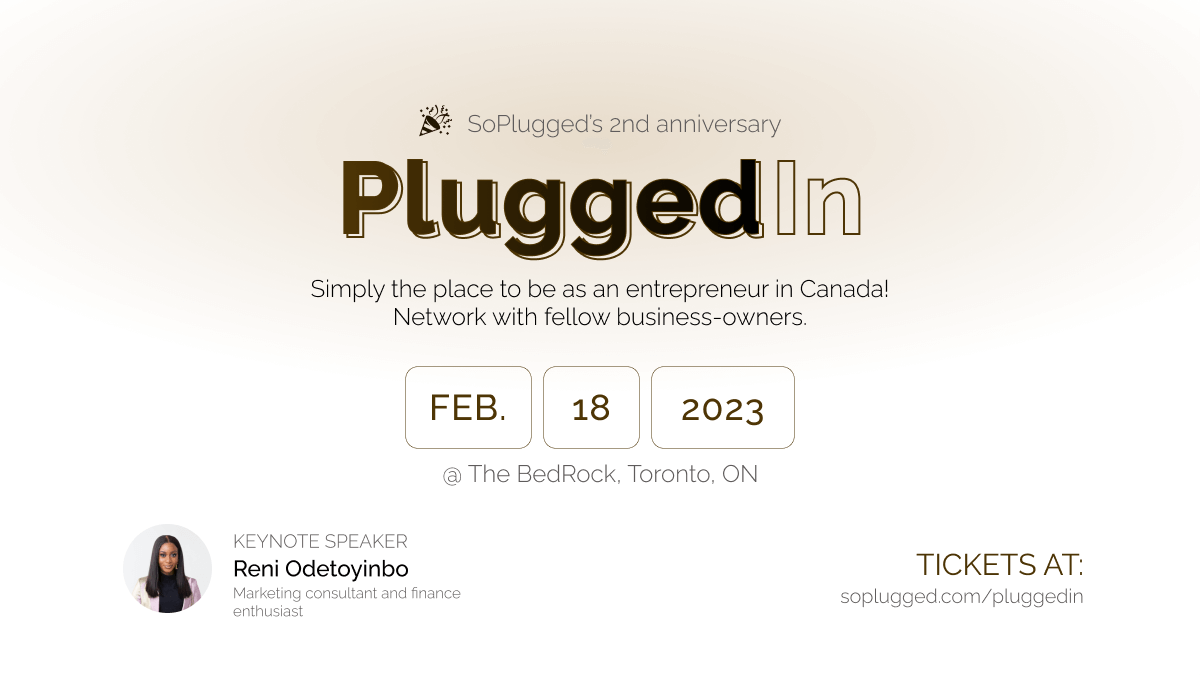
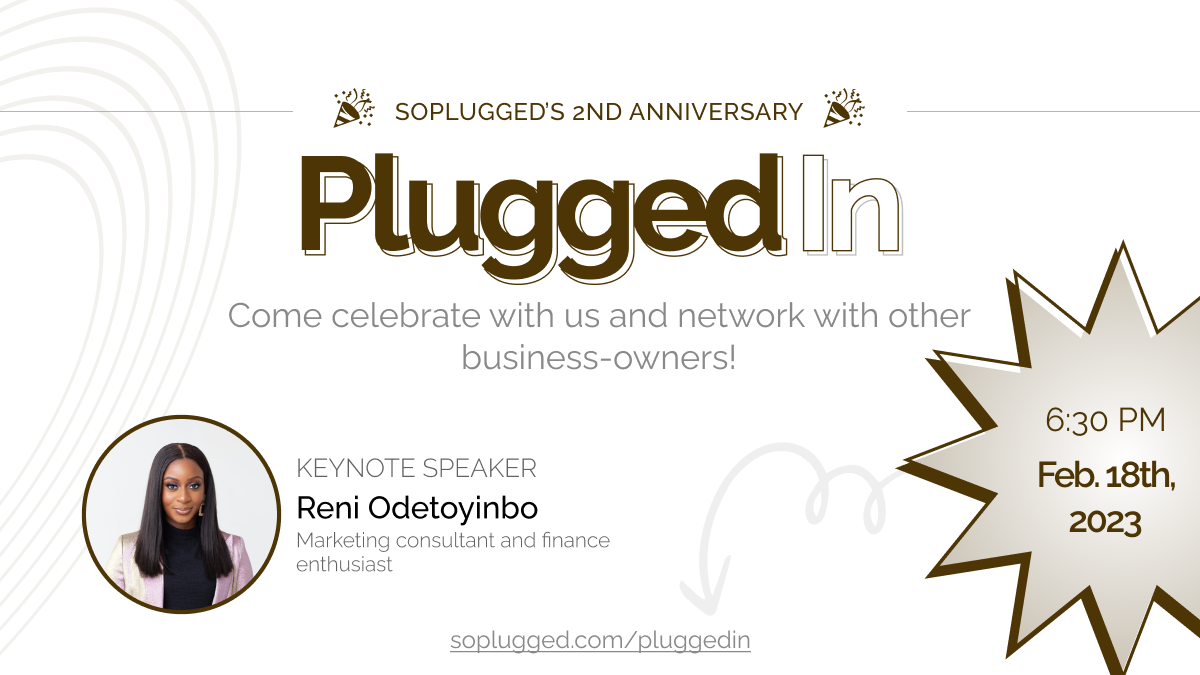
update OG image

diff --git a/src/components/pluggedIn/Tickets.tsx b/src/components/pluggedIn/Tickets.tsx
@@ -1,3 +1,5 @@
+import Dialog from "@reach/dialog";
+
 const options = [
   {
     title: "Business special",
@@ -60,101 +62,116 @@ function classNames(...classes: any) {
 
 const Tickets = () => {
   return (
-    <div className="my-container overflow-hidden">
-      <h2 className="outlinedText conference text-center text-5xl font-extrabold uppercase lg:text-6xl">
-        Tickets
-      </h2>
+    <>
+      <div className="my-container overflow-hidden">
+        <h2 className="outlinedText conference text-center text-5xl font-extrabold uppercase lg:text-6xl">
+          Tickets
+        </h2>
 
-      <ul className="my-10 grid gap-6 lg:grid-cols-2 lg:gap-10">
-        {options.map((option) => (
-          <li key={option.title}>
-            <form action="/api/stripe/checkout_sessions" method="POST">
-              <button
-                className={`${
-                  option.isDiscount ? "border-2" : "border"
-                } relative flex w-full flex-col gap-4 rounded-3xl border-primary bg-white p-6 text-left transition duration-150 hover:scale-[.98] sm:p-10`}
-              >
-                {option.isDiscount && (
-                  <img
-                    src="/exclusive_sticker.png"
-                    className="absolute -top-10 -right-6 h-20 lg:-top-10 lg:-right-10 lg:h-24"
-                    alt=""
-                  />
-                )}
-                <div className="flex w-full items-center justify-between gap-2 lg:flex-1">
-                  <div>
-                    <h3
-                      className={`text-xl font-bold leading-8 tracking-tight text-primary lg:text-2xl`}
-                    >
-                      {option.title}
-                    </h3>
-                    <p
-                      className={`mt-2 w-[80%] text-sm text-gray-600 lg:text-lg`}
-                    >
-                      {option.description}
-                    </p>
-                    <p className="mt-2 w-[80%] text-xs text-gray-600 lg:text-sm">
-                      *{option.subText}
-                    </p>
-                  </div>
-
-                  <div
-                    className={`absolute right-0 mr-6 inline-flex items-center text-primary sm:mr-10`}
-                  >
-                    <span>$</span>
-                    <p className="text-3xl font-medium lg:text-4xl">
-                      {option.price}
-                    </p>
-                    <span className="mb-6 text-sm">99</span>
-                  </div>
-                </div>
-              </button>
-            </form>
-          </li>
-        ))}
-      </ul>
-
-      <div>
-        <p className="font-semibold underline">
-          All tickets grant access to the following:
-        </p>
-        <div className="mt-5 grid gap-16 lg:grid-cols-3 lg:gap-x-10 lg:gap-y-12">
-          {features.map((feature) => (
-            <div className="relative" key={feature.title}>
-              <div>
-                <span
-                  className={classNames(
-                    feature.category.color,
-                    "inline-flex items-center rounded-full px-3 py-0.5 text-sm font-medium"
+        <ul className="my-10 grid gap-6 lg:grid-cols-2 lg:gap-10">
+          {options.map((option) => (
+            <li key={option.title}>
+              <form action="/api/stripe/checkout_sessions" method="POST">
+                <button
+                  className={`${
+                    option.isDiscount ? "border-2" : "border"
+                  } relative flex w-full flex-col gap-4 rounded-3xl border-primary bg-white p-6 text-left transition duration-150 hover:scale-[.98] sm:p-10`}
+                >
+                  {option.isDiscount && (
+                    <img
+                      src="/exclusive_sticker.png"
+                      className="absolute -top-10 -right-6 h-20 lg:-top-10 lg:-right-10 lg:h-24"
+                      alt=""
+                    />
                   )}
-                >
-                  {feature.category.name}
-                </span>
-              </div>
-              <div className="mt-2 block lg:mt-4">
-                <p className="text-lg font-bold text-gray-900 lg:text-xl">
-                  {feature.title}
-                </p>
-                <p className="mt-3 text-base text-gray-500">
-                  {feature.description}
-                </p>
-              </div>
-              <div className="mt-3 items-center">
-                <a
-                  href={feature.footer?.href}
-                  target="_blank"
-                  rel="noreferrer"
-                  className="text-sm font-medium text-gray-900 underline"
-                >
-                  {feature.footer?.title}
-                </a>
-              </div>
-              <hr className="absolute -bottom-6 left-0 w-full lg:hidden" />
-            </div>
+                  <div className="flex w-full items-center justify-between gap-2 lg:flex-1">
+                    <div>
+                      <h3
+                        className={`text-xl font-bold leading-8 tracking-tight text-primary lg:text-2xl`}
+                      >
+                        {option.title}
+                      </h3>
+                      <p
+                        className={`mt-2 w-[80%] text-sm text-gray-600 lg:text-lg`}
+                      >
+                        {option.description}
+                      </p>
+                      <p className="mt-2 w-[80%] text-xs text-gray-600 lg:text-sm">
+                        *{option.subText}
+                      </p>
+                    </div>
+
+                    <div
+                      className={`absolute right-0 mr-6 inline-flex items-center text-primary sm:mr-10`}
+                    >
+                      <span>$</span>
+                      <p className="text-3xl font-medium lg:text-4xl">
+                        {option.price}
+                      </p>
+                      <span className="mb-6 text-sm">99</span>
+                    </div>
+                  </div>
+                </button>
+              </form>
+            </li>
           ))}
+        </ul>
+
+        <div>
+          <p className="font-semibold underline">
+            All tickets grant access to the following:
+          </p>
+          <div className="mt-5 grid gap-16 lg:grid-cols-3 lg:gap-x-10 lg:gap-y-12">
+            {features.map((feature, index) => (
+              <div className="relative" key={feature.title}>
+                <div>
+                  <span
+                    className={classNames(
+                      feature.category.color,
+                      "inline-flex items-center rounded-full px-3 py-0.5 text-sm font-medium"
+                    )}
+                  >
+                    {feature.category.name}
+                  </span>
+                </div>
+                <div className="mt-2 block lg:mt-4">
+                  <p className="text-lg font-bold text-gray-900 lg:text-xl">
+                    {feature.title}
+                  </p>
+                  <p className="mt-3 text-base text-gray-500">
+                    {feature.description}
+                  </p>
+                  {/* {index === 1 && (
+                    <button
+                      className="inline-flex text-sm underline"
+                      onClick={() => alert("T&Cs")}
+                    >
+                      Terms & Conditions apply
+                    </button>
+                  )} */}
+                </div>
+                <div className="mt-3 items-center">
+                  <a
+                    href={feature.footer?.href}
+                    target="_blank"
+                    rel="noreferrer"
+                    className="text-sm font-medium text-gray-900 underline"
+                  >
+                    {feature.footer?.title}
+                  </a>
+                </div>
+                <hr className="absolute -bottom-6 left-0 w-full lg:hidden" />
+              </div>
+            ))}
+          </div>
         </div>
       </div>
-    </div>
+      {/* <Dialog
+        aria-label="Authentication requirement to view dashboard"
+        className="!w-[90%] max-w-lg rounded-lg"
+        isOpen={false}
+      ></Dialog> */}
+    </>
   );
 };
 

diff --git a/pages/pluggedin/success.tsx b/pages/pluggedin/success.tsx
@@ -111,7 +111,7 @@ const PluggedInSuccessPage = (
 
       <div className="my-container mt-6 text-center">
         <img
-          src="/og-pluggedin.png"
+          src="https://res.cloudinary.com/denbpv9kp/image/upload/v1673299410/soplugged_images/og_images/og-pluggedin_d8bor7.png"
           alt="OG image preview for plugged-in page"
           className="mx-auto w-full max-w-xl rounded-2xl border border-primary/40"
         />

diff --git a/src/components/SEO.tsx b/src/components/SEO.tsx
@@ -22,7 +22,7 @@ const SEO: FC<Props> = ({ description, title, variant }) => {
       break;
     case "pluggedin":
       ogImage =
-        "https://res.cloudinary.com/denbpv9kp/image/upload/v1673292093/soplugged_images/og_images/og-pluggedin_nyzi71.png";
+        "https://res.cloudinary.com/denbpv9kp/image/upload/v1673299410/soplugged_images/og_images/og-pluggedin_d8bor7.png";
       break;
     default:
       break;
